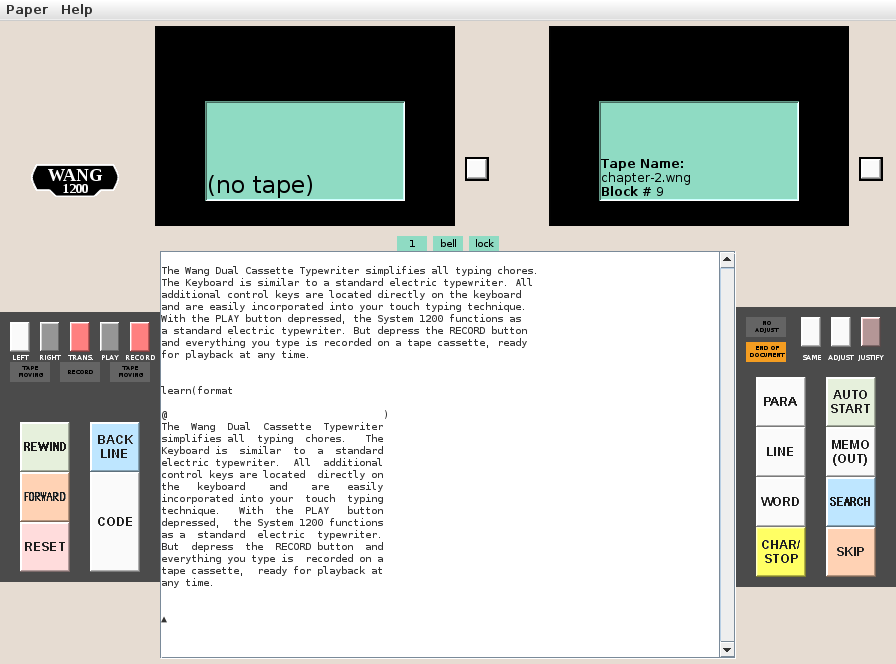
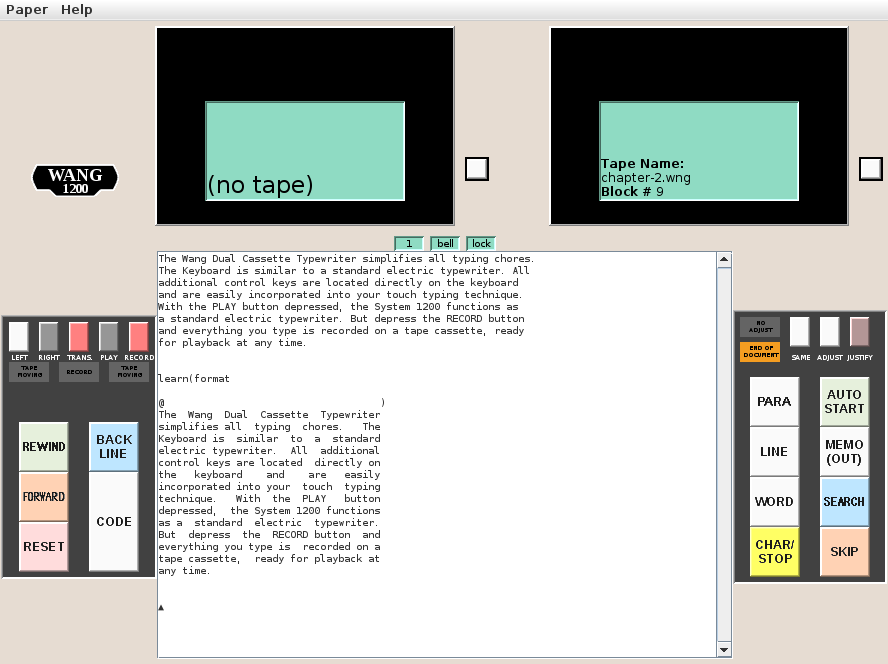
pretty-up the gui

diff --git a/w1200-sim/w1200_fe.java b/w1200-sim/w1200_fe.java
@@ -1,5 +1,5 @@
 // Copyright (c) 2011,2012 Douglas Miller
-// $Id: w1200_fe.java,v 1.49 2012/01/27 22:35:32 drmiller Exp $
+// $Id: w1200_fe.java,v 1.50 2012/01/28 01:43:49 drmiller Exp $
 
 import java.awt.*;
 import java.awt.event.*;
@@ -16,7 +16,7 @@ import javax.print.attribute.standard.*;
 import java.awt.Desktop;
 
 class _Key {
-	final String ident = "$Id: w1200_fe.java,v 1.49 2012/01/27 22:35:32 drmiller Exp $";
+	final String ident = "$Id: w1200_fe.java,v 1.50 2012/01/28 01:43:49 drmiller Exp $";
 
 	static final Color orange1 = new Color(255, 210, 180);
 	static final Color orange2 = new Color(255, 255, 100);	// illuminated
@@ -35,7 +35,7 @@ class _Key {
 	static final Color neon2 = new Color(214,127,13);
 	static final Color empty = new Color(50,50,50);
 	static final Color gray = new Color(100,100,100);
-	static final Color slate = new Color(75,75,75);
+	static final Color slate = new Color(65,65,65);
 	static final Color ivory = new Color(236,226,190);
 	static final Color beige = new Color(230,220,210);
 	static final Color aqua = new Color(143,219,195);
@@ -156,7 +156,7 @@ class FEexit extends Thread {
 
 public class w1200_fe
 {
-	final String ident = "$Id: w1200_fe.java,v 1.49 2012/01/27 22:35:32 drmiller Exp $";
+	final String ident = "$Id: w1200_fe.java,v 1.50 2012/01/28 01:43:49 drmiller Exp $";
 
 	public static File _dir;
 	public static java.text.SimpleDateFormat _timestamp =
@@ -411,7 +411,7 @@ public class w1200_fe
 }
 
 class Wang1200_Indicator extends JLabel {
-	final String ident = "$Id: w1200_fe.java,v 1.49 2012/01/27 22:35:32 drmiller Exp $";
+	final String ident = "$Id: w1200_fe.java,v 1.50 2012/01/28 01:43:49 drmiller Exp $";
 	static final long serialVersionUID = 311457692038L;
 
 //	GridBagLayout gridbag = new GridBagLayout();
@@ -487,7 +487,7 @@ class Wang1200_SimError
 class Wang1200_SimInput
 		implements Runnable, WindowListener, ActionListener
 {
-	final String ident = "$Id: w1200_fe.java,v 1.49 2012/01/27 22:35:32 drmiller Exp $";
+	final String ident = "$Id: w1200_fe.java,v 1.50 2012/01/28 01:43:49 drmiller Exp $";
 	Wang1200_Tape _tapel;
 	Wang1200_Tape _taper;
 	Wang1200_Model611 _m611;
@@ -661,7 +661,7 @@ class Wang1200_SimInput
 
 class Wang1200_TapeEject extends Wang1200_Keyboards
 {
-	final String ident = "$Id: w1200_fe.java,v 1.49 2012/01/27 22:35:32 drmiller Exp $";
+	final String ident = "$Id: w1200_fe.java,v 1.50 2012/01/28 01:43:49 drmiller Exp $";
 	static final long serialVersionUID = 311057692031L;
 	static final int num_keys = 1;
 
@@ -701,7 +701,7 @@ class Wang1200_TapeEject extends Wang1200_Keyboards
 
 class Wang1200_Tape extends JComponent
 {
-	final String ident = "$Id: w1200_fe.java,v 1.49 2012/01/27 22:35:32 drmiller Exp $";
+	final String ident = "$Id: w1200_fe.java,v 1.50 2012/01/28 01:43:49 drmiller Exp $";
 	static final long serialVersionUID = 311457692039L;
 	java.io.RandomAccessFile _tf;
 	java.io.OutputStream _fout;
@@ -774,7 +774,8 @@ class Wang1200_Tape extends JComponent
 		jp.add(_window, new Integer(1), 500);
 
 		JLabel cass = new JLabel();
-		lb = BorderFactory.createBevelBorder(BevelBorder.RAISED);
+		lb = BorderFactory.createBevelBorder(BevelBorder.RAISED,
+				Color.white, Color.gray);
 		cass.setBorder(lb);
 		cass.setVerticalAlignment(SwingConstants.TOP);
 		cass.setHorizontalAlignment(SwingConstants.CENTER);
@@ -1112,7 +1113,7 @@ class Wang1200_Model611
 	implements ActionListener, ComponentListener
 {
 	static final long serialVersionUID = 31140769203L;
-	final String ident = "$Id: w1200_fe.java,v 1.49 2012/01/27 22:35:32 drmiller Exp $";
+	final String ident = "$Id: w1200_fe.java,v 1.50 2012/01/28 01:43:49 drmiller Exp $";
 	private byte[] cn24_xlate;
 	private byte[] cn24_revxlate;
 	private char[] cn24_spcl;
@@ -1595,6 +1596,7 @@ class Wang1200_Model611
 		_carriage.setOpaque(true);
 		_carriage.setForeground(Color.black);
 		_carriage.setBackground(_Key.aqua);
+		_carriage.setBorder(BorderFactory.createBevelBorder(BevelBorder.LOWERED));
 		s.weightx = 1;
 		s.weighty = 0;
 		s.anchor = GridBagConstraints.EAST;
@@ -1610,6 +1612,7 @@ class Wang1200_Model611
 		_bell.setOpaque(true);
 		_bell.setForeground(Color.black);
 		_bell.setBackground(_Key.aqua);
+		_bell.setBorder(BorderFactory.createBevelBorder(BevelBorder.LOWERED));
 		s.gridx = 1;
 		s.gridy = 0;
 		s.weightx = 0;
@@ -1628,6 +1631,7 @@ class Wang1200_Model611
 		_lock.setOpaque(true);
 		_lock.setForeground(Color.black);
 		_lock.setBackground(_Key.aqua);
+		_lock.setBorder(BorderFactory.createBevelBorder(BevelBorder.LOWERED));
 		s.gridx = 2;
 		s.gridy = 0;
 		s.weightx = 1;
@@ -2271,7 +2275,7 @@ class Wang1200_Help extends JComponent
 		JOptionPane.showMessageDialog(_main,
 				"Wang 1200 Word Processor System\n"+
 				"Simulator\n"+
-				"$Revision: 1.49 $ $Date: 2012/01/27 22:35:32 $\n\n"+
+				"$Revision: 1.50 $ $Date: 2012/01/28 01:43:49 $\n\n"+
 				"Developed by Douglas Miller\n"+
 				"http://www.durgadas.com/wang1200.html\n\n"+
 				"With Jim Battle\n"+
@@ -2384,7 +2388,7 @@ class Wang1200_Help extends JComponent
 class Wang1200_Keyboard extends JComponent
 	implements ActionListener, KeyListener, WindowListener, ComponentListener
 {
-	final String ident = "$Id: w1200_fe.java,v 1.49 2012/01/27 22:35:32 drmiller Exp $";
+	final String ident = "$Id: w1200_fe.java,v 1.50 2012/01/28 01:43:49 drmiller Exp $";
 	static final long serialVersionUID = 31145769203L;
 	static final int num_kbds = 4;
 
@@ -2779,7 +2783,7 @@ System.err.println("action");
 
 class Wang1200_Keyboards extends JPanel
 {
-	final String ident = "$Id: w1200_fe.java,v 1.49 2012/01/27 22:35:32 drmiller Exp $";
+	final String ident = "$Id: w1200_fe.java,v 1.50 2012/01/28 01:43:49 drmiller Exp $";
 	static final long serialVersionUID = 311457692034L;
 	public Wang1200_Keyboards() { }
 
@@ -2925,7 +2929,7 @@ if (url != null) {
 
 class Wang1200_Keyboard_left extends Wang1200_Keyboards
 {
-	final String ident = "$Id: w1200_fe.java,v 1.49 2012/01/27 22:35:32 drmiller Exp $";
+	final String ident = "$Id: w1200_fe.java,v 1.50 2012/01/28 01:43:49 drmiller Exp $";
 	static final long serialVersionUID = 311457692031L;
 	static final int num_keys = 10;
 
@@ -2956,7 +2960,7 @@ class Wang1200_Keyboard_left extends Wang1200_Keyboards
 		c.gridwidth = 1;
 		c.gridheight = 1;
 		pan = new JPanel();
-		pan.setPreferredSize(new Dimension(160, 10));
+		pan.setPreferredSize(new Dimension(150, 5));
 		pan.setOpaque(false);
 		gridbag.setConstraints(pan, c);
 		add(pan);
@@ -2975,7 +2979,7 @@ class Wang1200_Keyboard_left extends Wang1200_Keyboards
 		c.gridwidth = 1;
 		c.gridheight = 4;
 		pan = new JPanel();
-		pan.setPreferredSize(new Dimension(5, 40));
+		pan.setPreferredSize(new Dimension(1, 40));
 		pan.setOpaque(false);
 		ugb.setConstraints(pan, c);
 		upper.add(pan);
@@ -3003,7 +3007,7 @@ class Wang1200_Keyboard_left extends Wang1200_Keyboards
 		c.gridwidth = 1;
 		c.gridheight = 4;
 		pan = new JPanel();
-		pan.setPreferredSize(new Dimension(5, 40));
+		pan.setPreferredSize(new Dimension(1, 40));
 		pan.setOpaque(false);
 		ugb.setConstraints(pan, c);
 		upper.add(pan);
@@ -3031,7 +3035,7 @@ class Wang1200_Keyboard_left extends Wang1200_Keyboards
 		c.gridwidth = 1;
 		c.gridheight = 2;
 		pan = new JPanel();
-		pan.setPreferredSize(new Dimension(10, 20));
+		pan.setPreferredSize(new Dimension(5, 20));
 		pan.setOpaque(false);
 		mgb.setConstraints(pan, c);
 		middle.add(pan);
@@ -3088,7 +3092,7 @@ class Wang1200_Keyboard_left extends Wang1200_Keyboards
 		c.gridwidth = 1;
 		c.gridheight = 2;
 		pan = new JPanel();
-		pan.setPreferredSize(new Dimension(10, 20));
+		pan.setPreferredSize(new Dimension(5, 20));
 		pan.setOpaque(false);
 		mgb.setConstraints(pan, c);
 		middle.add(pan);
@@ -3109,7 +3113,7 @@ class Wang1200_Keyboard_left extends Wang1200_Keyboards
 		c.gridwidth = 1;
 		c.gridheight = 1;
 		pan = new JPanel();
-		pan.setPreferredSize(new Dimension(160, 40));
+		pan.setPreferredSize(new Dimension(150, 40));
 		pan.setOpaque(false);
 		gridbag.setConstraints(pan, c);
 		add(pan);
@@ -3128,7 +3132,7 @@ class Wang1200_Keyboard_left extends Wang1200_Keyboards
 		c.gridwidth = 2;
 		c.gridheight = 15;
 		pan = new JPanel();
-		pan.setPreferredSize(new Dimension(20, 150));
+		pan.setPreferredSize(new Dimension(15, 150));
 		pan.setOpaque(false);
 		lgb.setConstraints(pan, c);
 		lower.add(pan);
@@ -3169,7 +3173,7 @@ class Wang1200_Keyboard_left extends Wang1200_Keyboards
 		c.gridwidth = 2;
 		c.gridheight = 15;
 		pan = new JPanel();
-		pan.setPreferredSize(new Dimension(20, 150));
+		pan.setPreferredSize(new Dimension(15, 150));
 		pan.setOpaque(false);
 		lgb.setConstraints(pan, c);
 		lower.add(pan);
@@ -3187,11 +3191,13 @@ class Wang1200_Keyboard_left extends Wang1200_Keyboards
 		c.gridwidth = 1;
 		c.gridheight = 1;
 		pan = new JPanel();
-		pan.setPreferredSize(new Dimension(160, 10));
+		pan.setPreferredSize(new Dimension(150, 5));
 		pan.setOpaque(false);
 		gridbag.setConstraints(pan, c);
 		add(pan);
 
+		setBorder(BorderFactory.createBevelBorder(BevelBorder.LOWERED,
+				Color.white, Color.gray));
 		//setPreferredSize(new Dimension(160, 260));
 		setBackground(_Key.slate);
 		setOpaque(true);
@@ -3200,7 +3206,7 @@ class Wang1200_Keyboard_left extends Wang1200_Keyboards
 
 class Wang1200_Keyboard_right extends Wang1200_Keyboards
 {
-	final String ident = "$Id: w1200_fe.java,v 1.49 2012/01/27 22:35:32 drmiller Exp $";
+	final String ident = "$Id: w1200_fe.java,v 1.50 2012/01/28 01:43:49 drmiller Exp $";
 	static final long serialVersionUID = 311457692033L;
 	static final int num_keys = 11;
 
@@ -3229,7 +3235,7 @@ class Wang1200_Keyboard_right extends Wang1200_Keyboards
 		c.gridwidth = 1;
 		c.gridheight = 1;
 		pan = new JPanel();
-		pan.setPreferredSize(new Dimension(160, 10));
+		pan.setPreferredSize(new Dimension(150, 5));
 		pan.setOpaque(false);
 		gridbag.setConstraints(pan, c);
 		add(pan);
@@ -3245,7 +3251,7 @@ class Wang1200_Keyboard_right extends Wang1200_Keyboards
 		c.gridwidth = 1;
 		c.gridheight = 5;
 		pan = new JPanel();
-		pan.setPreferredSize(new Dimension(10, 50));
+		pan.setPreferredSize(new Dimension(5, 50));
 		pan.setOpaque(false);
 		ugb.setConstraints(pan, c);
 		upper.add(pan);
@@ -3277,7 +3283,7 @@ class Wang1200_Keyboard_right extends Wang1200_Keyboards
 		c.gridheight = 5;
 		c.insets = new Insets(0,0,0,0);
 		pan = new JPanel();
-		pan.setPreferredSize(new Dimension(10, 50));
+		pan.setPreferredSize(new Dimension(5, 50));
 		pan.setOpaque(false);
 		ugb.setConstraints(pan, c);
 		upper.add(pan);
@@ -3317,7 +3323,7 @@ class Wang1200_Keyboard_right extends Wang1200_Keyboards
 		c.gridwidth = 1;
 		c.gridheight = 1;
 		pan = new JPanel();
-		pan.setPreferredSize(new Dimension(160, 10));
+		pan.setPreferredSize(new Dimension(150, 10));
 		pan.setOpaque(false);
 		gridbag.setConstraints(pan, c);
 		add(pan);
@@ -3335,7 +3341,7 @@ class Wang1200_Keyboard_right extends Wang1200_Keyboards
 		c.gridwidth = 2;
 		c.gridheight = 20;
 		pan = new JPanel();
-		pan.setPreferredSize(new Dimension(20,200));
+		pan.setPreferredSize(new Dimension(15,200));
 		pan.setOpaque(false);
 		lgb.setConstraints(pan, c);
 		lower.add(pan);
@@ -3385,7 +3391,7 @@ class Wang1200_Keyboard_right extends Wang1200_Keyboards
 		c.gridwidth = 2;
 		c.gridheight = 20;
 		pan = new JPanel();
-		pan.setPreferredSize(new Dimension(20, 200));
+		pan.setPreferredSize(new Dimension(15, 200));
 		pan.setOpaque(false);
 		lgb.setConstraints(pan, c);
 		lower.add(pan);
@@ -3403,14 +3409,15 @@ class Wang1200_Keyboard_right extends Wang1200_Keyboards
 		c.gridwidth = 1;
 		c.gridheight = 1;
 		pan = new JPanel();
-		pan.setPreferredSize(new Dimension(160, 10));
+		pan.setPreferredSize(new Dimension(150, 5));
 		pan.setOpaque(false);
 		gridbag.setConstraints(pan, c);
 		add(pan);
 
+		setBorder(BorderFactory.createBevelBorder(BevelBorder.LOWERED,
+				Color.white, Color.gray));
 		//setPreferredSize(new Dimension(160, 260));
 		setBackground(_Key.slate);
 		setOpaque(true);
-
 	}
 }
